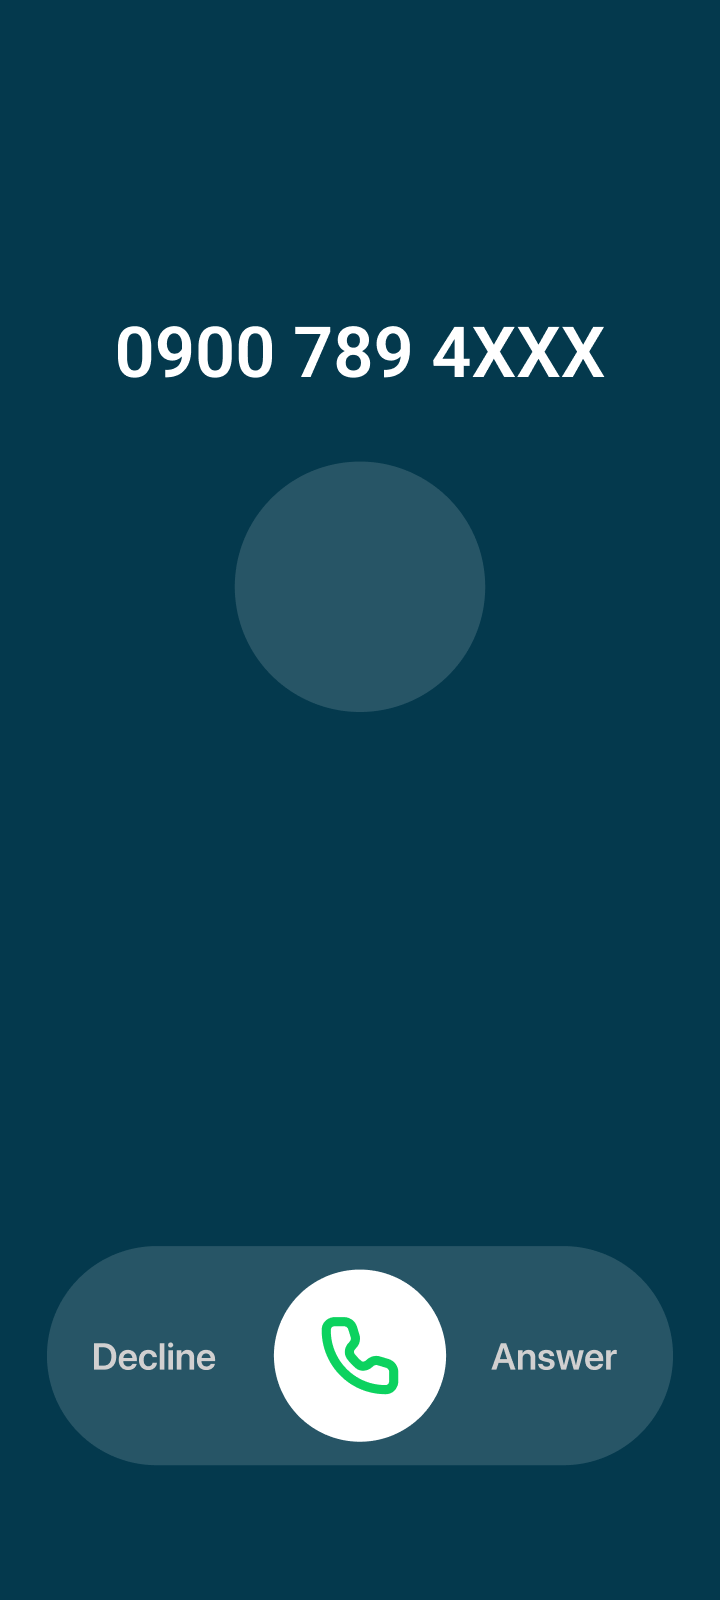
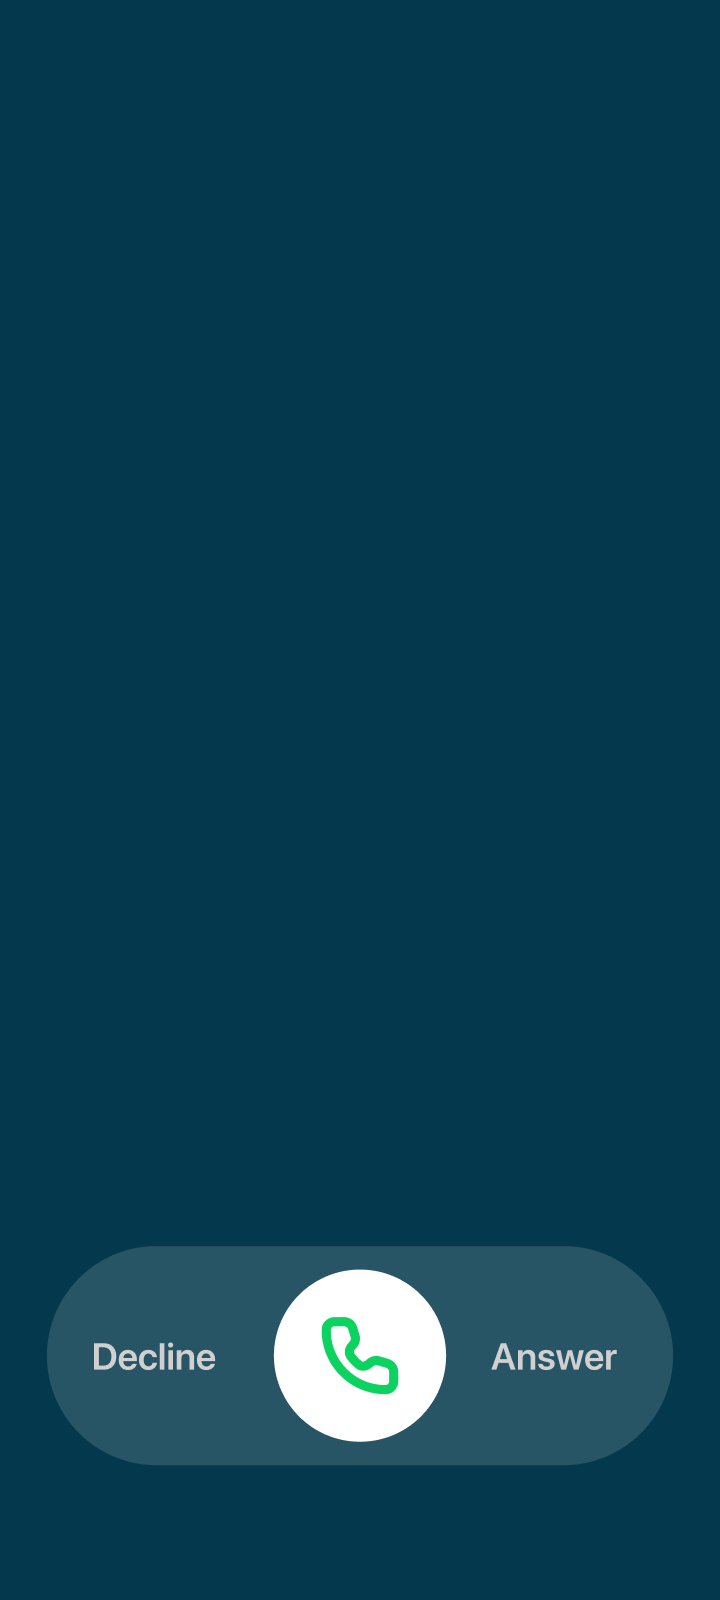
V1 C1: Android-style call screen, glow loop, press cue, new decline and home motion
- Call screen: no avatar circle or ripple; 'Call from' above the number, fading in during Part 1
- Decline/Answer glows loop every 3s; rows 5.3s per loop everywhere
- A: press cue with ripple, red brightens with the slide, Answer fades with green,
  dialog shrinks away, home elements slide in, Vee and bubble re-timed, 10.6s loop
- B: 5.3s loop with the ripple fading at the replay

diff --git a/index.html b/index.html
@@ -136,7 +136,7 @@ h1{font-size:24px;line-height:31px;font-weight:600;margin:0;text-wrap:balance}
 .v1.nosearch.s0 .p1{animation:p1pills 1.5s cubic-bezier(.25,.7,.3,1) both}
 @keyframes p1pills{0%{opacity:0;transform:translateY(320px)}12%{opacity:1}60%{opacity:1;transform:none}100%{opacity:0;transform:scale(.3)}}
 /* Zoom-out = global Part 1 Phone layer: position y eases over 0.82s (0.25,0.56,0.553,1), scale over 1.48s (0.263,0.597,0.402,1) */
-.v1.nosearch.s0 .phw{opacity:0;animation:p1vis 0s 2.75s both,p1tr .665s cubic-bezier(.25,.56,.553,1) 2.8s both,p1sc 1.2s cubic-bezier(.263,.597,.402,1) 2.8s both}
+.v1.nosearch.s0 .phw{opacity:1;animation:p1tr .665s cubic-bezier(.25,.56,.553,1) 2.8s both,p1sc 1.2s cubic-bezier(.263,.597,.402,1) 2.8s both} /* v109: visible from the start; its children (except the texts) appear at 2.75s */
 @keyframes p1vis{to{opacity:1}}
 @keyframes p1tr{from{translate:0 107.5px}to{translate:0 21.5px}}
 @keyframes p1sc{from{scale:1.9565}to{scale:1.15}}
@@ -165,8 +165,8 @@ h1{font-size:24px;line-height:31px;font-weight:600;margin:0;text-wrap:balance}
 .v1.nosearch.s0 .fsov{animation:fsin 4s linear both}
 .v1 .fsov .fsh{position:absolute;left:158px;top:412px;width:44px;height:44px;border-radius:50%}
 .v1 .fsh::before,.v1 .fsh::after{content:'';position:absolute;inset:0;border-radius:50%}
-.v1.nosearch.s0 .fsh::before,.v1.nosearch.s0 .fsh::after,.v1.nosearch.s0 .handle::before,.v1.nosearch.s0 .handle::after{opacity:1;animation:hripple 1.4s ease-out 1.72s infinite}
-.v1.nosearch.s0 .fsh::after,.v1.nosearch.s0 .handle::after{animation-delay:2.42s}
+.v1.nosearch.s0 .fsh::before,.v1.nosearch.s0 .fsh::after,.v1.nosearch.s0 .handle::before,.v1.nosearch.s0 .handle::after{opacity:1;animation:hripple 1.4s ease-out 1.2s infinite} /* v138: starts at 1.2s (still hidden until the full-screen call fades in at 1.72s) so Part 1 ends on a ripple-cycle boundary (4.0s = 1.2 + 2×1.4) */
+.v1.nosearch.s0 .fsh::after,.v1.nosearch.s0 .handle::after{animation-delay:1.9s}
 
 .v1 .fs,.v1 .fspulse{opacity:0;pointer-events:none}
 .v1 .fs{inset:-2px;background-size:360px 800px;background-position:2px 2px}
@@ -174,7 +174,17 @@ h1{font-size:24px;line-height:31px;font-weight:600;margin:0;text-wrap:balance}
 @keyframes p1scr{0%,43%{background-color:#f5f5f4;animation-timing-function:ease-in-out}56.25%,70%{background-color:#04394d}72.5%,100%{background-color:#f5f5f4}}
 .v1 .fspulse{position:absolute;left:116.5px;top:230px;width:126.5px;height:126.5px;border-radius:50%;background:#275566}
 .v1.nosearch.s0 .fs{animation:fsin 4s linear both}
+/* 2026-11-21 (v109): 'Call from' and the number are one set of layers inside the phone layer. In Part 1 the phone layer is already in place (scaled up to full
+   screen) while the full-screen call shows, but only these two texts are visible; they fade in one after the other with a soft rise, then simply shrink
+   with the phone (no second fade). Everything else in the phone layer still appears at 2.75s as before. */
+.v1.nosearch.s0 .phtx{opacity:0;animation:txin .5s cubic-bezier(.33,0,.2,1) both}
+.v1.nosearch.s0 .phtx.t1{animation-delay:1.65s} .v1.nosearch.s0 .phtx.t2{animation-delay:1.75s} /* v111: same 0.1s gap — in by 2.25s, ~0.55s before the shrink; the full-screen call itself starts fading in at 1.72s */
+@keyframes txin{from{opacity:0;translate:0 6px}to{opacity:1;translate:0 0}}
+.v1.nosearch.s0 .phw>*:not(.phtx){opacity:0;animation:p1vis 0s 2.75s both}
+.v1.nosearch.s0 .phw{z-index:2} /* above the full-screen call so the texts show on it */
 .v1.nosearch.s0 .fspulse{animation:fsin 4s linear both,ringF 1.1s ease-out 1.8s infinite}
+/* 2026-11-21: C1 call screens have no avatar circle any more (number with 'Call from' above, like Android) — hide the avatar disc and its ripple */
+.v1.nosearch .fspulse,.v1.nosearch .pulse{display:none}
 @keyframes fsin{0%,43%{opacity:0;animation-timing-function:ease-in-out}56.25%,70%{opacity:1}72.5%,100%{opacity:0}}
 @keyframes ringF{0%{box-shadow:0 0 0 0 rgba(255,255,255,0)}20%{box-shadow:0 0 0 6px rgba(255,255,255,.2)}100%{box-shadow:0 0 0 31px rgba(255,255,255,0)}}
 /* Title + button: hidden in Part 1, slide in as Part 2 starts (title, then button +0.2s) */
@@ -221,8 +231,13 @@ h1{font-size:24px;line-height:31px;font-weight:600;margin:0;text-wrap:balance}
 .v1.nosearch.anim.s3 .dp2{animation:dlgP2 var(--dlgD) linear both} .v1.nosearch.anim.s3 .dp3{animation:dlgP3 var(--dlgD) linear both}
 .v1.nosearch.anim.s3 .dp4{animation:dlgP4 var(--dlgD) linear both}
 /* Glows start with the ringing ripple (2026-11-16): red (Decline) fades in with the ripple, green (Answer) follows 0.4s later so the light sweeps left to right; each 0.6s, then they stay lit while the dialog shows */
-.v1.nosearch.s1 .eg.l{animation:egin .6s ease-in-out both} .v1.nosearch.s1 .eg.r{animation:egin .6s ease-in-out .4s both}
-.v1.nosearch.glow .eg{opacity:1;animation:none}
+.v1.nosearch.s1 .eg.l,.v1.nosearch.glow .eg.l{animation:egLoopL 3s linear infinite} .v1.nosearch.s1 .eg.r,.v1.nosearch.glow .eg.r{animation:egLoopR 3s linear infinite}
+/* 2026-11-21: the glows' entrance repeats — red fades in (0.6s), green 0.4s later; both stay lit to 2.2s, fade out by 2.6s, stay off 0.4s, then again (3s loop, from ringing through the dialog).
+   At the Decline (4.7s into Part 2 = 1.7s into the 2nd loop) both are lit, so the slide starts from full glows. */
+/* v118: softer still — lit to 1.9s, then a 1.0s fade (1.9–2.9s) on a sine ease-in-out, 0.1s off */
+/* v118: lit to 1.9s, then a 1.0s fade (1.9–2.9s) on a sine ease-in-out, 0.1s off; 3s loop */
+@keyframes egLoopL{0%{opacity:0;animation-timing-function:ease-in-out}20%,63.33%{opacity:1;animation-timing-function:cubic-bezier(.37,0,.63,1)}96.67%,100%{opacity:0}}
+@keyframes egLoopR{0%,13.33%{opacity:0;animation-timing-function:ease-in-out}33.33%,63.33%{opacity:1;animation-timing-function:cubic-bezier(.37,0,.63,1)}96.67%,100%{opacity:0}}
 @keyframes egin{from{opacity:0}to{opacity:1}}
 /* Ringing ripple on the answer handle: two soft white rings, looping while the phone rings, stop once the handle slides to Decline */
 .v1.nosearch .handle::before,.v1.nosearch .handle::after{content:'';position:absolute;inset:0;border-radius:50%;pointer-events:none;opacity:0}
@@ -233,7 +248,9 @@ h1{font-size:24px;line-height:31px;font-weight:600;margin:0;text-wrap:balance}
 .v1.nosearch.glow.still .eg{opacity:1;animation:none}
 /* Decline slide (2026-11-16): the red glow stays as it is (no stretch across the pill); only the green glow fades out while the handle slides left */
 .v1.nosearch.spread .eg.l,.v1.nosearch.go .eg.l{opacity:1;animation:none}
-.v1.nosearch.spread .eg.r{animation:egout .5s ease-out both} .v1.nosearch.go .eg.r{opacity:0;animation:none}
+.v1.nosearch.spread .eg.r{animation:egout .5s ease-out both} .v1.nosearch.go:not(.burst) .eg.r{opacity:0;animation:none} /* C1 decline (burst): the green glow really fades out over 0.5s */
+/* since v114 the s4 state starts 0.1s after the slide: keep the red glow lit and let the green one finish its 0.5s fade until the home screen covers them */
+.v1.nosearch.s4.dec.burst .eg.l{opacity:1;animation:none} .v1.nosearch.s4.dec.burst .eg.r{animation:egout .5s ease-out both}
 @keyframes egout{from{opacity:1}to{opacity:0}}
 
 .v1 .handle.spring{transition:left .35s cubic-bezier(.3,1.5,.5,1)}
@@ -258,23 +275,43 @@ h1{font-size:24px;line-height:31px;font-weight:600;margin:0;text-wrap:balance}
    ribbons wriggle, then everything fades out (~2.6s). */
 .v1.nosearch .c3{will-change:transform,opacity}
 .v1.nosearch.burst .flood{display:none}
-.v1.nosearch.burst .c3,.v1.nosearch.anim.s3.burst .c3{z-index:3;animation:dlgZoomS .3s linear both,dlgZoomO .3s linear both} /* 2026-11-19: more speed — a tiny pull-back, then a hard ease-in (quart) to 4.2×; it stays solid until 40%, then fades out fast */
-@keyframes dlgZoomS{0%{transform:scale(1);animation-timing-function:cubic-bezier(.3,0,.5,1)}12%{transform:scale(.96);animation-timing-function:cubic-bezier(.6,0,.85,.25)}100%{transform:scale(4.2)}}
-@keyframes dlgZoomO{0%,45%{opacity:1;animation-timing-function:cubic-bezier(.4,0,.8,.4)}100%{opacity:0}}
+.v1.nosearch.burst .c3,.v1.nosearch.anim.s3.burst .c3{z-index:3;animation:dlgZoomS .2s linear both,dlgZoomO .2s linear both} /* v113: 0.2s */ /* 2026-11-19: more speed — a tiny pull-back, then a hard ease-in (quart) to 4.2×; it stays solid until 40%, then fades out fast */
+/* 2026-11-21 trial: instead of flying out, the dialog swells a touch, then shrinks into its centre and disappears (same 0.3s) */
+@keyframes dlgZoomS{0%{transform:scale(1);animation-timing-function:cubic-bezier(.3,0,.5,1)}15%{transform:scale(1.04);animation-timing-function:cubic-bezier(.55,0,.75,.2)}100%{transform:scale(.2)}}
+@keyframes dlgZoomO{0%,40%{opacity:1;animation-timing-function:cubic-bezier(.4,0,.8,.4)}100%{opacity:0}}
 .v1.nosearch.burst .c4d{opacity:1;z-index:1;animation:homein .3s ease-out .25s both}
 @keyframes homein{from{opacity:0}to{opacity:1}}
 /* 2026-11-19: the call-screen number fades out in 0–0.2s, before the dialog has flown out (0.3s): a patch of the plain screen colour over the number */
-.v1 .nmk{position:absolute;left:8px;top:56px;width:168px;height:36px;background:#04394d;opacity:0;pointer-events:none}
+.v1 .nmk{position:absolute;left:8px;top:40px;width:168px;height:50px;background:#04394d;opacity:0;pointer-events:none}
 .v1.nosearch.burst .nmk{z-index:1;animation:homein .2s ease-out both}
 /* Home screen elements fade in one by one after the screen itself (2026-11-16): clock → long bar → 4 app squares. Each element = a crop of the same
    home image over a patch of the plain screen colour, so the screen first appears empty. */
 .v1 .hmk,.v1 .hel{position:absolute;left:12px;width:160px} .v1 .hmk{background:#04394d}
-.v1.nosearch.burst .hel{animation:homein .3s ease-out both} .v1.nosearch.burst .h1{animation-delay:.5s} .v1.nosearch.burst .h2{animation-delay:.7s} .v1.nosearch.burst .h3{animation-delay:.8s}
+.v1.nosearch.burst .hel{animation:homein .3s ease-out both} .v1.nosearch.burst .h1{animation:homein .6s cubic-bezier(.37,0,.63,1) .4s both} /* v122: the clock fades in softer (0.6s sine ease-in-out) from 0.4s */
+/* 2026-11-21: the long bar and the 4 dock squares slide up from below the phone screen (clipped by it) instead of fading in; they overlap, the squares start 0.2s after the bar */
+/* v120: smoother — the slide is 0.7s on an ease-out-quint (long, soft landing), the fade is its own 0.45s ease-out; the squares start 0.1s after the bar */
+.v1.nosearch.burst .h2,.v1.nosearch.burst .h3{animation:homeupY .7s cubic-bezier(.22,1,.36,1) both,homeupO .45s ease-out both} .v1.nosearch.burst .h2{animation-delay:.3s,.3s} .v1.nosearch.burst .h3{animation-delay:.4s,.4s} /* v122: bar 0.3s, squares 0.4s (same 0.1s gap and motion) */
+@keyframes homeupY{from{translate:0 110px}to{translate:0 0}}
+@keyframes homeupO{from{opacity:0}to{opacity:1}}
 .v1.nosearch.burst .handle{visibility:visible;z-index:2;animation:hout .2s ease-in .3s both} /* slides to Decline in 0.5s (slowed 2026-11-16), fades 0.3–0.5s: gone before the home screen is fully in (0.55s) */
 .v1.nosearch.burst .handle.slide{transition:left .5s cubic-bezier(.4,0,.2,1)} .v1.nosearch.burst .handle::before,.v1.nosearch.burst .handle::after{animation:none;opacity:0}
 @keyframes hout{to{opacity:0;transform:scale(.8)}}
-.v1.nosearch.s4 .c3{opacity:0} .v1.nosearch.anim.s4.dec .c4d{animation:none}
-.v1.nosearch.s4.burst .handle{visibility:hidden}
+/* v126: press cue — 0.35s before the slide the handle grows to 1.15 (like a finger landing), then sinks to 0.92 (held down) and stays pressed while it slides */
+.v1.nosearch .handle.press{animation:hpress .8s both,hpring 1s cubic-bezier(.25,.6,.3,1) .22s both} .v1.nosearch.burst .handle.press{animation:hpress .8s both,hpring 1s cubic-bezier(.25,.6,.3,1) .22s both,hout .2s ease-in .3s both}
+/* v128: the press ripple is the handle's own box-shadow, so it travels left with the handle (no afterimage left behind) */
+@keyframes hpring{0%{box-shadow:0 0 0 0 rgba(255,255,255,.6)}100%{box-shadow:0 0 0 22px rgba(255,255,255,0)}}
+/* v130: the 'Decline' label is its own layer (above the glow, under the handle and the home screen); from the press it lights up to white with a soft glow and grows to 1.12 */
+.v1 .dlab{position:absolute;left:-88px;top:-102px;width:360px;height:800px;background-size:360px 800px;background-repeat:no-repeat;pointer-events:none;transform-origin:128.75px 433.5px}
+/* v134: 'Answer' is its own layer too and fades out together with the green glow when the slide starts (0.5s ease-out) */
+.v1.nosearch.burst .alab{animation:egout .5s ease-out both}
+/* v132: no label effect any more; instead, from the press the red glow gets stronger — a brighter, more opaque red layer fades in over it (0.5s, from 0.2s) */
+.v1 .eg.l::after{content:'';position:absolute;inset:0;border-radius:inherit;background:linear-gradient(90deg,rgba(255,46,77,.95),rgba(255,46,77,.35) 70%,rgba(255,46,77,0));opacity:0;pointer-events:none}
+.v1 .eg.l.hot::after{animation:egHot .5s cubic-bezier(.4,0,.2,1) both} /* v133: in step with the handle's slide (left .5s cubic-bezier(.4,0,.2,1)) */
+@keyframes egHot{to{opacity:1}}
+/* v128: gentler press — grows to 1.08 over 0.2s, eases down to 0.95 by 0.5s (sine curves) */
+@keyframes hpress{0%{scale:1;animation-timing-function:cubic-bezier(.37,0,.63,1)}25%{scale:1.08;animation-timing-function:cubic-bezier(.37,0,.63,1)}62.5%,100%{scale:.95}} /* v135: 0.2s grow, 0.3s press, 0.3s held */
+.v1.nosearch.s4 .c3{opacity:0} .v1.nosearch.anim.s4.dec .c4d{animation:none} .v1.nosearch.anim.s4.dec.burst .c4d{animation:homein .3s ease-out .25s both}
+/* v113: s4 now starts at 0.25s, so the handle keeps its slide + fade (hout) until the burst ends */
 /* Confetti = Verna's LottieFiles file (report_success_confetti_fillcontainer, 370×420, 60fps, 2s), played as-is with lottie-web.
    It sits in the phone layer (not the clipped screen), centred on the dialog and drawn at 1.6× the phone-screen width, so pieces shoot past the frame. */
 .v1 .conf{position:absolute;left:32px;top:89px;width:296px;height:336px;z-index:4;pointer-events:none;overflow:visible} /* burst origin = comp centre (185,210) → dialog centre (180,257) in the phone layer */
@@ -305,14 +342,17 @@ h1{font-size:24px;line-height:31px;font-weight:600;margin:0;text-wrap:balance}
 @keyframes veein{0%{opacity:0;transform:translate(36px,48px) scale(.4) rotate(20deg)}100%{opacity:1;transform:none}}
 @keyframes bob{0%,100%{transform:none}50%{transform:translateY(-3px) rotate(-4deg)}}
 @keyframes bubin{0%{opacity:0;transform:scale(.3)}100%{opacity:1;transform:none}}
-.v1.nosearch.anim.s4 .veel{transform-origin:50% 50%;animation:veeJelly var(--veeD) linear .1s both} /* C1 Vee entrance (2026-11-19): the dialog's jelly, smaller — keyframes generated in JS (VEE_JELLY) */
+.v1.nosearch.anim.s4 .veel{transform-origin:50% 50%;animation:veeJelly var(--veeD) linear .5s both} /* v131: Vee at 0.6s after the slide starts (s4 is at 0.1s), so the slide to Decline is seen first */ /* C1 Vee entrance (2026-11-19): the dialog's jelly, smaller — keyframes generated in JS (VEE_JELLY) */
 /* the bubble pops out from its tail (right) towards the left once Vee is in, like Vee starting to talk */
-.v1.nosearch.anim.s4 .bub{animation:bubTalk .5s .5s both} /* 2026-11-19: 1.05s after the slide starts (was 1.35s) */
+.v1.nosearch.anim.s4 .bub{animation:bubTalk .5s .75s both} /* v131: 0.85s after the slide starts = still 0.25s after Vee */
 @keyframes bubTalk{0%{opacity:0;transform:scale(.15,.55);animation-timing-function:cubic-bezier(.2,.7,.4,1)}45%{opacity:1;transform:scale(1.06,1.03);animation-timing-function:ease-in-out}72%{transform:scale(.98,.99);animation-timing-function:ease-in-out}100%{opacity:1;transform:none}}
 @keyframes fadeclip{to{opacity:0}}
 /* V1 · Ends at dialog replay: fade only the dialog and the two glows; the call screen and the handle (with its ripple) stay */
 .v1.nosearch.anim.s3.dfade .c3,.v1.nosearch.glow.dfade .eg.l,.v1.nosearch.glow.dfade .eg.r{animation:dfadeout .35s ease-in forwards}
 @keyframes dfadeout{from{opacity:1}to{opacity:0}}
+/* v138: B's replay — the handle ripple fades out with the dialog (0.35s) and starts again from nothing at the next cycle, so the ripple keeps its 1.4s rhythm and does not have to divide the 5.3s cycle */
+.v1.nosearch.glow.dfade .handle::before,.v1.nosearch.glow.dfade .handle::after{animation:hripple 1.4s ease-out infinite,dfadeout .35s ease-in forwards}
+.v1.nosearch.glow.dfade .handle::after{animation-delay:.7s,0s}
 /* B: Part 2 A's three stars around the dialog (2026-11-19) — same count, size and keyframes as Vee's Star2/3/4 in v1_c1_vee_cheer5 (60fps), only re-placed:
    size = 19.7 Lottie units × 0.467 (the Vee layer scale) = 9.2px; Star2 bottom-left, Star3 top-right, Star4 = Star3 + (12, 38) units like on Vee.
    Star2/3: opacity 0→1 in 14f, →0 by 44f; scale 120%→150% in 37f (Lottie ease o(.391,-1.106) i(.056,3.754)); rotate 45°→180° in 37f (o(.564,0) i(.31,.796)).
@@ -491,7 +531,7 @@ html.pvon,html.pvon body{overflow:hidden}
 <script>
 const HIDE_C2=true; if(HIDE_C2) document.documentElement.classList.add('hide-c2');
 const A='prototype_assets/';
-const VER='?v=20261120a';
+const VER='?v=20261121g';
 const NOSEARCH=new Set(['c1']); // candidates that skip the Searching beat (phone vibrates instead)
 const BEATS=['Ringing','Searching','Identified','Declined','Answered'];
 const screens=[...document.querySelectorAll('.screen')];
@@ -519,8 +559,8 @@ const VEE_JELLY={grow:.3,s0:.55,jStart:.2,amount:.08,damp:4.2,freq:15,len:1.1};
   for(let i=0;i<=N;i++){ const t=J.len*i/N, p=eo(cl(t/J.grow)), base=J.s0+(1-J.s0)*p, u=t-J.jStart, jj=(u<0||i===N)?0:J.amount*Math.exp(-J.damp*u)*Math.sin(J.freq*u);
     k+=`${f(100*i/N)}%{opacity:${f(p)};transform:scale(${f(base*(1+jj))},${f(base*(1-.9*jj))})}`; }
   const st=document.createElement('style'); st.textContent=`:root{--veeD:${J.len}s}@keyframes veeJelly{${k}}`; document.head.appendChild(st); })();
-const GLOW_LEN=3200, SPREAD_LEN=560, DLG_END_HOLD=3750, VEE_END_HOLD=6150; // VEE_END_HOLD: Version A, from the Decline slide start to the fade-out before the replay; cycle = 1.5 + 3.2 + 6.15 + 0.35 = 11.2s = 2 rows loops = 8 ripple cycles
-// DLG_END_HOLD: V1 · Ends at dialog (same in the app): 3.75s from the dialog appearing, then only the dialog and the glows fade out (0.35s) and it replays from ringing. The call screen and the handle stay, and the handle ripple keeps its rhythm, so one cycle = 1.5 + 3.75 + 0.35 = 5.6s = 4 ripple cycles (1.4s) and the Lottie loop seam is invisible
+const GLOW_LEN=3200, SPREAD_LEN=560, DLG_END_HOLD=3450, VEE_END_HOLD=5550; // VEE_END_HOLD: Version A, from the Decline slide start to the fade-out before the replay; cycle = 1.5 + 3.2 + 5.55 + 0.35 = 10.6s (v136) = 2 rows loops of 5.3s in Part 2 A (Part 1 and B keep 5.6s); the handle is hidden before the replay, so its ripple is simply re-aligned for frame 0
+// DLG_END_HOLD: V1 · Ends at dialog (same in the app): 3.45s (v137) from the dialog appearing, then only the dialog and the glows fade out (0.35s) and it replays from ringing. The call screen and the handle stay, and the handle ripple keeps its rhythm, so one cycle = 1.5 + 3.45 + 0.35 = 5.3s = 1 rows loop; the ripple (1.4s) fades out with the dialog and restarts at 0, so it needs no match and the Lottie loop seam is invisible
  // C1 Part 2 (static): glows are already lit from ringing; the dialog jelly + content reveal takes ~1.25s, then it holds ~2s so users can read it, then the handle slides to Decline as red spreads (0.56s) before the call declines
 const ctrls=screens.map(el=>({el,timers:[],state:'s1',extra:'',choice:'dec',busy:false}));
 const VEE=`<div class="vee" aria-live="polite"><p class="bub"><span class="bd">You avoided a high-risk call!</span><span class="ba">Now you know who's calling you!</span></p><img src="${'prototype_assets/'}vee.svg" alt=""></div>`;
@@ -531,12 +571,12 @@ const VEE_NS=`<div class="vee" aria-live="polite"><p class="bub"><span class="bd
 function renderV1(el){const c=el.dataset.c; const ctl=ctrls.find(x=>x.el===el);
   const ns=NOSEARCH.has(c); // C1: new teal phone (separate layer so it can vibrate), no Searching beat, result screens baked in
   el.innerHTML=`<div class="layer bgl" style="${bg(c,ns?'v1_C_bg_nobars.png':'v1_C_b1.png')}" role="img" aria-label="${c.toUpperCase()} incoming call"></div>${ns?'<div class="rows" aria-hidden="true"></div><div class="p1d" aria-hidden="true"></div>':''}
-  <div class="phw">${ns?`<div class="layer" style="${bg(c,'v1_C_phone.png')}"></div>`:''}
+  <div class="phw">${ns?`<div class="layer" style="${bg(c,'v1_C_phone.png')}"></div><div class="layer phtx t1" style="${bg(c,'v1_C_phone_cf.png')}"></div><div class="layer phtx t2" style="${bg(c,'v1_C_phone_num.png')}"></div>`:''}
   <div class="clip"><i class="pulse"></i>
     ${ns?'':`<div class="crop cd c2" style="${bg(c,'v1_C_b2.png')}"></div>`}
     ${ns?`<div class="crop cd c3 dsh" style="${bg(c,'v1_C_dlg_shell.png')}">${DLG_PARTS.map((d,i)=>`<i class="dp dp${i}" style="${bg(c,'v1_C_dlg_'+d.f+'.png')};transform-origin:${d.x}px ${d.y}px"></i>`).join('')}</div>`:`<div class="crop cd c3" style="${bg(c,'v1_C_b3.png')}"></div>`}
     ${ns?'<i class="eg l"></i><i class="eg r"></i><span class="chev l" aria-hidden="true"><i></i><i></i></span><span class="chev r" aria-hidden="true"><i></i><i></i></span>':''}
-    <i class="flood"></i>${ns?'<i class="nmk" aria-hidden="true"></i>':''}
+    ${ns?`<i class="dlab" aria-hidden="true" style="${bg(c,'v1_C_phone_decline.png')}"></i><i class="dlab alab" aria-hidden="true" style="${bg(c,'v1_C_phone_answer.png')}"></i>`:''}<i class="flood"></i>${ns?'<i class="nmk" aria-hidden="true"></i>':''}
     <div class="crop full c4d" style="${bg(c,'v1_C_b4d_clean.png')}">${ns?[[58,34],[280,36],[326,36]].map(([t,h],i)=>`<i class="hmk" style="top:${t}px;height:${h}px"></i><i class="crop hel h${i+1}" style="${bg(c,'v1_C_b4d_clean.png')};top:${t}px;height:${h}px;background-position:-100px -${102+t}px"></i>`).join(''):''}${ns?'':'<div class="b4"><p class="num">+63 123 456 0000</p><span class="rtag">Call declined</span></div>'}</div>
     <div class="crop full c4a" style="${bg(c,'v1_C_b4a_clean.png')}">${ns?'':'<div class="b4"><p class="num">+63 123 456 0000</p><span class="rtag">Identified: Scammer</span></div>'}</div>
     <button type="button" class="handle" aria-label="Swipe handle: left arrow to Decline, right arrow to Answer" style="background-image:url(${A}${ns?'v1_c1_handle.png':'v1_handle.png'}${VER})"></button>
@@ -555,7 +595,7 @@ function mountConf(c){ const box=c.el.querySelector('.conf'); if(!box||!window.l
 let ROWS=null; const rowsData=fetch(A+'v1_c1_p2_rows.json'+VER).then(r=>r.json()).then(j=>ROWS=j).catch(()=>null);
 function mountRows(c){ const box=c.el.querySelector('.rows'); if(!box||!window.lottie) return;
   rowsData.then(()=>{ if(!ROWS) return; c.rows=lottie.loadAnimation({container:box,renderer:'svg',loop:true,autoplay:!reduce,animationData:JSON.parse(JSON.stringify(ROWS))}); c.rows.setSpeed(ROWS_SPEED); }); }
-const ROWS_SPEED=5/5.6; // 2026-11-17: one rows loop (300 frames, 5s at 1.0) = 5.6s = one Version B cycle, so the rows don't jump when Part 2 B loops; Part 1 uses the same speed
+const ROWS_SPEED=5/5.3; // v137: one rows loop = 5.3s everywhere (Part 1, A, B): B's cycle is 5.3s = 1 loop, A's 10.6s = 2 loops, so the speed never changes and every replay is seamless
 /* Result Vee = cheer expression from welcome_page_Android_Center.json (frames 152–420: cheer marks, happy eyes, sparkles; then loops the idle 240–420) */
 let VEEJ=null; const veeData=fetch(A+'v1_c1_vee_cheer5.json'+VER).then(r=>r.json()).then(j=>VEEJ=j).catch(()=>null);
 function mountVee(c){ const box=c.el.querySelector('.veelin'); if(!box||!window.lottie) return;
@@ -570,7 +610,7 @@ function veeSync(c){ const b=c.el.querySelector('.bub'); if(!b||!c.vee) return;
   const f=c.vee.currentFrame+(c.vee.firstFrame||0); if(!c.veeOn||f<240){ b.style.translate=''; b.style.scale=''; return; }
   const u=(f-240)%180, h=u<90?bobEase(u/90):1-bobEase((u-90)/90), off=(BOB_BOT-BOB_TOP)*h; // offset only, no scale (scaling made the text shimmer)
   b.style.translate=`0 ${(off*.467).toFixed(2)}px`; b.style.scale=''; }
-function veeState(c,st){ if(!c.vee) return; if(st==='s4'){ if(c.veeOn) return; c.veeOn=true; c.vee.loop=false; if(reduce){ c.vee.goToAndStop(195,true); return; } setTimeout(()=>{ if(c.veeOn) c.vee.playSegments([152,600],true); },100); /* v1_c1_vee_cheer5: the laugh bounce runs 4 times (149–238) with the stars, then the idle bob; the 4 laughs and the stars come back once more (laughs 299–388, stars 321–394); after 600 it loops the plain bob 420–600 */ } else if(c.veeOn){ c.veeOn=false; c.vee.loop=false; c.vee.goToAndStop(300,true); } }
+function veeState(c,st){ if(!c.vee) return; if(st==='s4'){ if(c.veeOn) return; c.veeOn=true; c.vee.loop=false; if(reduce){ c.vee.goToAndStop(195,true); return; } setTimeout(()=>{ if(c.veeOn) c.vee.playSegments([152,600],true); },500); /* v1_c1_vee_cheer5: the laugh bounce runs 4 times (149–238) with the stars, then the idle bob; the 4 laughs and the stars come back once more (laughs 299–388, stars 321–394); after 600 it loops the plain bob 420–600 */ } else if(c.veeOn){ c.veeOn=false; c.vee.loop=false; c.vee.goToAndStop(300,true); } }
 let DIAL=null; const dialData=fetch(A+'v1_c1_p1_dial.json'+VER).then(r=>r.json()).then(j=>DIAL=j).catch(()=>null);
 function mountDial(c){ const box=c.el.querySelector('.p1d'); if(!box||!window.lottie) return;
   dialData.then(()=>{ if(!DIAL) return; c.dial=lottie.loadAnimation({container:box,renderer:'svg',loop:false,autoplay:false,animationData:JSON.parse(JSON.stringify(DIAL))});
@@ -584,26 +624,28 @@ function setHandle(c,x,mode){ const h=c.handle; h.classList.remove('spring','sli
 function markStep(i){ stepBtns.forEach((b,j)=>b.classList.toggle('on',j===i)); }
 function schedule(c,from){ // continue the story from a beat
   clr(c); if(!playing||ver!=='v1') return;
-  if(from===0){ c.locked=true; c.p2in=false; c.el.className='screen v1'; void c.el.offsetWidth; setState(c,'s0'); markStep(0); if(c.dial) c.dial.goToAndPlay(0,true); at(c,P1_LEN,()=>{ c.p2in=true; schedule(c,1); at(c,900,()=>{ c.p2in=false; }); }); return; } // C1 Part 1: splash → welcome
-  if(from<=1){ c.locked=NOSEARCH.has(c.el.dataset.c); setState(c,'s1',{anim:from===1}); markStep(0); at(c,T_S2,()=>schedule(c,2)); return; }
+  if(from===0){ c.locked=true; c.p2in=false; if(c.rows) c.rows.setSpeed(ROWS_SPEED); c.el.className='screen v1'; void c.el.offsetWidth; setState(c,'s0'); markStep(0); if(c.dial) c.dial.goToAndPlay(0,true); at(c,P1_LEN,()=>{ c.p2in=true; schedule(c,1); at(c,900,()=>{ c.p2in=false; }); }); return; } // C1 Part 1: splash → welcome
+  if(from<=1){ c.locked=NOSEARCH.has(c.el.dataset.c); if(c.rows&&NOSEARCH.has(c.el.dataset.c)) c.rows.setSpeed(ROWS_SPEED); setState(c,'s1',{anim:from===1}); markStep(0); at(c,T_S2,()=>schedule(c,2)); return; }
   if(from===2&&NOSEARCH.has(c.el.dataset.c)){ schedule(c,3); return; }
   if(from===2){ setState(c,'s2'); markStep(1); at(c,T_S3-T_S2,()=>schedule(c,3)); return; }
   if(NOSEARCH.has(c.el.dataset.c)){ c.locked=true; setState(c,'s3',{extra:'glow'}); markStep(2); // C1: static auto-play, no drag
     if(END_DIALOG){ if(!playing) return; at(c,DLG_END_HOLD,()=>setState(c,'s3',{extra:'glow dfade'})); at(c,DLG_END_HOLD+350,()=>runStory(c)); return; } // V1 · Ends at dialog: stays on the dialog (ripple loops), then the prototype replays
+    at(c,GLOW_LEN-800,()=>c.handle.classList.add('press')); /* v135: press starts 0.8s before the slide: grow, press down, then hold 0.3s before sliding */
+    at(c,GLOW_LEN-1,()=>{ const g=c.el.querySelector('.eg.l'); if(g) g.classList.add('hot'); }); /* v133: the red glow brightens with the slide itself (same 0.5s and curve as the handle) */ /* v128: softer 0.5s press cue; its ripple now rides on the handle */ /* v126: a press cue (grow, then pressed down) right before the slide, so the Decline reads as a drag */
     at(c,GLOW_LEN,()=>{ choose(c,'dec',false); setHandle(c,G(c).MIN,'slide'); }); return; } // C1: the dialog flies out as the handle starts sliding to Decline
   setState(c,'s3',{extra:'wait'}); markStep(2);
   at(c,AUTO,()=>{ setHandle(c,G(c).MIN,'slide'); at(c,560,()=>choose(c,'dec',false)); });
 }
 function waitPhase(c){ clr(c); c.locked=false; setState(c,'s3',{extra:'wait'}); if(!playing) return;
   at(c,AUTO_NS,()=>{ setHandle(c,G(c).MIN,'slide'); at(c,560,()=>choose(c,'dec',false)); }); }
-function runStory(c,p1){ if(LT&&c.lt){ ltStart(c); return; } c.busy=false; setHandle(c,G(c).C); schedule(c,p1===true&&NOSEARCH.has(c.el.dataset.c)?0:1); }
+function runStory(c,p1){ if(LT&&c.lt){ ltStart(c); return; } if(c.handle) c.handle.classList.remove('press'); const _g=c.el.querySelector('.eg.l'); if(_g) _g.classList.remove('hot'); c.busy=false; setHandle(c,G(c).C); schedule(c,p1===true&&NOSEARCH.has(c.el.dataset.c)?0:1); }
 function choose(c,which,manual){
   if(ver!=='v1'||c.busy) return; c.busy=true; clr(c); c.choice=which;
   const fx=c.hx+G(c).HW/2, fy=332; c.flood.className='flood '+which; c.flood.style.left=fx+'px'; c.flood.style.top=fy+'px';
   const cel=NOSEARCH.has(c.el.dataset.c)&&which==='dec'; // C1: dialog zoom-out + confetti instead of the red flood
   // confetti removed for now (2026-11-16, Verna); to bring it back: c.conf.setSpeed(75/18); c.conf.playSegments([[0,60],[102,117]],true);
   setState(c,c.state==='s1'?'s1':c.state,{extra:cel?'glow spread go burst':'go'});
-  at(c,cel?550:600,()=>{ setState(c,'s4',{extra:which+(cel?' burst':'')}); markStep(which==='dec'?3:4); });
+  at(c,cel?100:600,()=>{ setState(c,'s4',{extra:which+(cel?' burst':'')}); markStep(which==='dec'?3:4); }); // C1 (v114): s4 at 0.1s → Vee at 0.2s (as the dialog finishes shrinking), bubble 0.4s after Vee; the dialog shrink, handle and home screen keep running through s4
   at(c,cel?2900:1150,()=>setState(c,'s4',{extra:which+' settled'}));
   if(!playing) return;
   const hold=NOSEARCH.has(c.el.dataset.c)?VEE_END_HOLD:(manual?4800:3800); // C1 Version A (same in the app): Vee's cheer + idle, then the screen contents and Vee fade out (0.35s) and it replays from ringing
